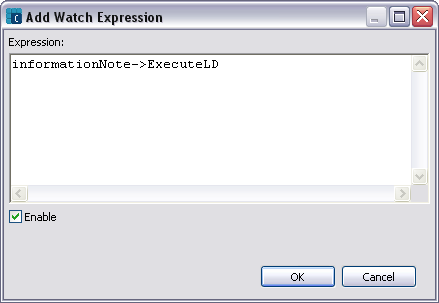
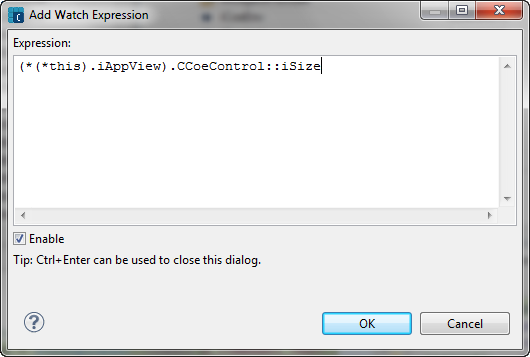
revised variables, watchpoints pages with new images, fixed broken links in F1 help too

Changed region(s): [[0.0, 0.0, 1.0, 1.0]]

diff --git a/core/com.nokia.carbide.cpp.doc.user/html/debugger/variables/viewing_expressions.htm b/core/com.nokia.carbide.cpp.doc.user/html/debugger/variables/viewing_expressions.htm
@@ -20,20 +20,20 @@
   <li>Expressions list pane&#8212;Lists expressions and expression hierarchies. Click the hierarchical controls to expand or collapse the expression. Right-click to open the Expressions view context menu.</li>
   <li>Value pane&#8212;Shows the current value of each corresponding expression. Double-click a value to change it. Right-click to set viewing options.</li>
 </ul>
-<p align="center"><img src="../images/view_expressions.png" width="439" height="144"></p>
+<p align="center"><img src="../images/view_expressions.png" width="667" height="358"></p>
 <p class="figure">Figure 1 - Expressions view </p>
 <h3>Expressions view toolbar icons</h3>
 <p>The following commands appear on the Expressions view toolbar:</p>
 <table width="88%"  border="0" cellpadding="2" cellspacing="0">
   <tr>
-    <th width="34%" scope="col">Item</th>
-    <th width="14%" scope="col">Icons</th>
-    <th width="52%" scope="col">Explanation</th>
+    <th width="25%" scope="col">Item</th>
+    <th width="10%" scope="col">Icons</th>
+    <th width="65%" scope="col">Explanation</th>
   </tr>
   <tr>
     <td><b>Show Type Names </b></td>
     <td><div align="center"><img src="../images/var_toggle_type_names_icon.png" width="19" height="19" /></div></td>
-    <td>Toggles the display of type names in the Expressions view. </td>
+    <td>Toggles the display of type names in the <strong>Expressions</strong> view. </td>
   </tr>
   <tr>
     <td><b>Show Logical Structure </b></td>
@@ -46,6 +46,12 @@
     <td>Collapses all expanded expressions into the top level. </td>
   </tr>
   <tr>
+      <td><strong>Create a New Watch Expression</strong></td>
+      <td><div align="center"><img src="../images/icon_add.png" alt="Add New Watch Expression icon" width="18" height="18"></div></td>
+      <td><p>Click to open the <strong>Add New Expression </strong>dialog. Enter the expression to add, then click <strong>OK</strong>.</p>
+        <p align="center"><img src="../images/wnd_add_watch_expr.png" alt="Add Watch Expression window" width="530" height="357"></p></td>
+  </tr>
+  <tr>
     <td><b>Remove Selected Expression </b></td>
     <td><div align="center"><img src="../images/var_remove_selected_globals_icon.png" width="18" height="16" /></div></td>
     <td>Click to remove all currently selected expressions from the expressions list. </td>
@@ -55,10 +61,16 @@
     <td><div align="center"><img src="../images/var_remove_all_globals_icon.png" width="19" height="19" /></div></td>
     <td>Click to remove all expressions from the expressions list. </td>
   </tr>
+  <tr>
+      <td><strong>View Menu</strong></td>
+      <td><div align="center"><img src="../images/icon_menu_white.png" alt="View menu" width="12" height="12"></div></td>
+      <td><p>Click the <strong>View Menu</strong> icon to set the layout of the <strong>Expressions</strong> view.</p>
+        <p align="center"><img src="../images/menu_vew_expressions_01.png" alt="View menu" width="326" height="158"></p></td>
+  </tr>
 </table>
 <h3>Expressions view context menu options</h3>
 <p>Right-click in the Expression's pane in the <span class="style1">Expressions</span> view to access the context menu commands shown in Figure 2.</p>
-<p align="center"><img src="../images/view_expressions_menu_cmds.png" width="226" height="223"></p>
+<p align="center"><img src="../images/menu_vew_expressions_02.png" alt="Expressions view context menu" width="429" height="408"></p>
 <p class="figure">Figure 2. <span class="style1">Expressions</span> view context menu commands (Expression list pane)</p>
 <p>The  commands include: </p>
 <table width="800"  border="0" cellpadding="2" cellspacing="0">
@@ -68,33 +80,35 @@
   </tr>
   <tr>
     <td><b>Select All</b></td>
-    <td>Selects all the expressions shown in the Expressions view.</td>
+    <td>Selects all the expressions shown in the <strong>Expressions</strong> view.</td>
   </tr>
   <tr>
     <td><b>Copy Expressions</b></td>
-    <td>Copies the selected expressions to the clipboard.</td>
+    <td><p>Copies the selected expressions to the clipboard.</p>
+        <p class="note"><strong>NOTE</strong> Only the selected expressions visible in the Expressions view are copied. Expressions listed outside the boundary of the view are not in memory and can't be copied at this time.</p></td>
   </tr>
   <tr>
     <td><b>Remove</b></td>
-    <td>Remove the selected expressions from the Expressions view list.</td>
+    <td><p>Remove the selected expressions from the <strong>Expressions</strong> view list.</p>
+        </td>
   </tr>
   <tr>
     <td><b>Remove All</b></td>
-    <td>Remove all expressions from the Expressions view list.</td>
+    <td>Remove all expressions from the <strong>Expressions</strong> view list.</td>
   </tr>
   <tr>
     <td><b>Find...</b></td>
-    <td>Opens a <b>Find</b> dialog to search the Expressions view list.</td>
+    <td><p>Opens a <b>Find</b> dialog to search the <strong>Expressions</strong> view list. Enter the expression to search for and click <strong>OK</strong>.</p>
+        <p align="center"><img src="../images/wnd_find_expressions.png" alt="Find Expressions dialog" width="398" height="437"></p></td>
   </tr>
   <tr>
     <td><b>Change Value...</b></td>
     <td><p>Opens the <b>Set Value</b> dialog where you can modify the value assigned to the selected expressions. Change the value and click <b>OK</b>.</p>
-        <p align="center"><img src="../images/wnd_set_value.png" width="401" height="214"></p></td>
+        <p align="center"><img src="../images/wnd_set_value.png" width="488" height="234"></p></td>
   </tr>
   <tr>
     <td><b>Add Watch Expression...</b></td>
-    <td><p>Opens the <a href="adding_expressions.htm">Add Watch Exression</a> dialog for creation of a new expression.</p>
-    </td>
+    <td><p>Opens the <a href="adding_expressions.htm">Add Watch Exression</a> dialog for creation of a new expression.</p>    </td>
   </tr>
   <tr>
     <td><b>Disable</b></td>
@@ -109,8 +123,32 @@
     <td>Opens the <b>Edit Watch Expression</b> dialog where you can modify the expression and enable it for automatic evaluation.</td>
   </tr>
   <tr>
-    <td><b>Reevaluate Watch Expression</b></td>
-    <td>Forces the expression to be reevaluated. Useful after the expressions has been edited or not evaluated due to being disabled.</td>
+      <td><strong>Add Watchpoint (C/C++)...</strong></td>
+      <td><p>Opens the <a href="../watchpoints/setting_watchpoints.htm">Add Watchpoint</a> dialog enabling you to define a watchpoint on the variable.</p>
+        <p align="center"><img src="../images/wnd_add_watchpoint.png" alt="Add Watchpoint window" width="238" height="253"></p></td>
+  </tr>
+  <tr>
+      <td><strong>Cast To Type...</strong></td>
+      <td><p>Opens the <b>Cast to Type</b> dialog where you can assign a new type to the expression. Enter the type and click <strong>OK</strong>. </p>
+          <p>All cast expressions are then shown using the <strong>Restore Original Type</strong> menu option making them easy to identify and restore later.</p></td>
+  </tr>
+  <tr>
+      <td><strong>Display As Array...</strong></td>
+      <td>Opens the <strong>Display as Array</strong> dialog where you can set array parameters to show the variables. Enter the <strong>Start index</strong> and <strong>Length</strong>, then click <strong>OK</strong> to update how the variables are shown in the Variables view.</td>
+  </tr>
+  <tr>
+      <td><strong>Format</strong></td>
+      <td><p>Change the selected variable's  display format. The default setting is Natural, or the format assigned when the variable is defined. For example, the decimal value of 256 would appear as:</p>
+          <ul>
+              <li>Binary (<span class="code">0b100000</span>)</li>
+              <li>Natural (<span class="code">256</span>)</li>
+              <li>Decimal (<span class="code">256</span>)</li>
+              <li>Hexadecimal (<span class="code">0x100</span>)</li>
+        </ul></td>
+  </tr>
+  <tr>
+      <td><strong>Watch</strong></td>
+      <td>Creates a watchpoint on the selected variable and displays it in the <a href="../watchpoints/watchpoints.htm">Watchpoint</a> view. </td>
   </tr>
 </table>
 <h5>Other references</h5>

diff --git a/core/com.nokia.carbide.cpp.doc.user/html/debugger/watchpoints/watchpoints.htm b/core/com.nokia.carbide.cpp.doc.user/html/debugger/watchpoints/watchpoints.htm
@@ -5,16 +5,16 @@
 <meta http-equiv="Content-Style-Type" content="text/css" />
 <meta name="LASTUPDATED" content="06/17/05 11:09:43" />
 <title>Watchpoints Overview</title>
-<link rel="StyleSheet" href="../../book.css" type="text/css"/>
+<link rel="StyleSheet" href="../../../book.css" type="text/css"/>
 </head>
 <body bgcolor="#FFFFFF">
 <h2>Watchpoints Overview </h2>
 <p>  Use <em>watchpoints</em> (sometimes referred to as access breakpoints) to halt program execution when a specific global location is accessed. After you set a watchpoint at a key point in memory, you can halt program execution whenever that point in memory is written to or read from. You can then examine the call chain, check register and variable values, and step through your code. You can also change values and alter the flow of normal program execution.</p>
 <p>A watchpoint must be both enabled and resolved during a debug session in order to halt program execution. The  <a href="../reference/view_breakpoints.htm">Breakpoints view</a> indicates the status of any watchpoint using a set of common icons and checkmark status badge. These include:</p>
 <ul>
-  <li>An <b>enabled</b> watchpoint has a non-gray icon (<img src="../tasks/watchpoints/images/icon_watchpoint_write_resolved.png" width="15" height="16" align="absmiddle" />) indicating that program execution  halts when encountered.</li>
-  <li>A <b>disabled</b> watchpoint displays a gray icon (<img src="../tasks/watchpoints/images/icon_watchpoint_write_disabled.png" width="16" height="16" align="absmiddle" />) indicating that program execution will not stop when encountered. </li>
-  <li>A <b>resolved</b> watchpoint has a small checkmark badge (<img src="../tasks/watchpoints/images/icon_watchpoint_rw_enabled_resolved.png" width="16" height="16" align="absmiddle" /> ) indicating that the debugger has located it in memory during program launch. When resolved, the debugger can halt program execution if the watchpoint is encountered.</li>
+  <li>An <b>enabled</b> watchpoint has a non-gray icon (<img src="../images/icon_watchpoint_write_resolved.png" width="15" height="16" align="absmiddle" />) indicating that program execution  halts when encountered.</li>
+  <li>A <b>disabled</b> watchpoint displays a gray icon (<img src="../images/icon_watchpoint_write_disabled.png" width="16" height="16" align="absmiddle" />) indicating that program execution will not stop when encountered. </li>
+  <li>A <b>resolved</b> watchpoint has a small checkmark badge (<img src="../images/icon_watchpoint_rw_enabled_resolved.png" alt="Read Write resolved" width="16" height="16" align="absmiddle">) indicating that the debugger has located it in memory during program launch. When resolved, the debugger can halt program execution if the watchpoint is encountered.</li>
 </ul>
 <p>In effect, a watchpoint that is enabled by the user and resolved by the debugger during program launch can halt program execution. The table below shows the various states that cause the debugger to halt program execution: </p>
 <h5>Table 1 Watchpoint&mdash;stop execution chart </h5>
@@ -57,39 +57,39 @@
   <tr>
     <td rowspan="2"><b>Write</b></td>
     <td>enabled</td>
-    <td><div align="center"><img src="../tasks/watchpoints/images/icon_watchpoint_write_resolved.png" width="15" height="16" /></div></td>
+    <td><div align="center"><img src="../images/icon_watchpoint_write_resolved.png" width="15" height="16" /></div></td>
     <td><p>The watchpoint is activated for write access operations on the specific memory location and if resolved, will halt program execution on a write operation at the watchpoint. </p>
     </td>
   </tr>
   <tr>
     <td>disabled</td>
-    <td><div align="center"><img src="../tasks/watchpoints/images/icon_watchpoint_write_disabled.png" width="16" height="16" /></div></td>
+    <td><div align="center"><img src="../images/icon_watchpoint_write_disabled.png" width="16" height="16" /></div></td>
     <td><p>Watchpoint is disabled for the source line, debugger does not halt program execution on a write operation. </p>
     </td>
   </tr>
   <tr>
     <td rowspan="2"><b>Read</b></td>
     <td>enabled</td>
-    <td><div align="center"><img src="../tasks/watchpoints/images/icon_watchpoint_read_enabled.png" width="16" height="16" /></div></td>
+    <td><div align="center"><img src="../images/icon_watchpoint_read_enabled.png" width="16" height="16" /></div></td>
     <td><p>The watchpoint is activated for read access operations on the specific memory location and if resolved, will halt program execution on a read operation at the watchpoint. </p>
     </td>
   </tr>
   <tr>
     <td>disabled</td>
-    <td><div align="center"><img src="../tasks/watchpoints/images/icon_watchpoint_read_disabled.png" width="16" height="16" /></div></td>
+    <td><div align="center"><img src="../images/icon_watchpoint_read_disabled.png" width="16" height="16" /></div></td>
     <td><p>Watchpoint is disabled for the source line, debugger does not halt program execution on a read operation. </p>
     </td>
   </tr>
   <tr>
     <td rowspan="2"><b>Write/Read</b></td>
     <td>enabled</td>
-    <td><div align="center"><img src="../tasks/watchpoints/images/icon_watchpoint_rw_enabled.png" width="16" height="16" /></div></td>
+    <td><div align="center"><img src="../images/icon_watchpoint_rw_enabled.png" width="16" height="16" /></div></td>
     <td><p>The watchpoint is activated for both read and write access operations on the specific memory location and if resolved, will halt program execution  on any read or write operation at the watchpoint. </p>
     </td>
   </tr>
   <tr>
     <td>disabled</td>
-    <td><div align="center"><img src="../tasks/watchpoints/images/icon_watchpoint_rw_disabled.png" width="16" height="16" /></div></td>
+    <td><div align="center"><img src="../images/icon_watchpoint_rw_disabled.png" width="16" height="16" /></div></td>
     <td><p>Watchpoint is disabled for the source line, debugger does not halt program execution on a read or write operation. </p>
     </td>
   </tr>

diff --git a/core/com.nokia.carbide.cpp.doc.user/html/concepts/breakpoints.htm b/core/com.nokia.carbide.cpp.doc.user/html/concepts/breakpoints.htm
@@ -4,11 +4,11 @@
 <meta http-equiv="Content-Type" content="text/html; charset=ISO-8859-1" />
 <meta http-equiv="Content-Style-Type" content="text/css" />
 <meta name="LASTUPDATED" content="06/17/05 11:09:43" />
-<title>Breakpoints</title>
+<title>Breakpoints Overview</title>
 <link rel="StyleSheet" href="../../book.css" type="text/css"/>
 </head>
 <body bgcolor="#FFFFFF">
-<h2>Breakpoints </h2>
+<h2>Breakpoints Overview</h2>
 <p>  A <b>breakpoint</b> is a marker set on a specific line of source code and is designed to halt program execution when encountered by the debugger. After you set a breakpoint at a key point in the program, you can halt its execution, examine its current state, and check register and variable values. You can also change values and alter the flow of normal program execution. Setting breakpoints helps you debug your program and verify its efficiency.</p>
 <p>A project can have multiple breakpoints set in the source code files. All breakpoints  in a project are shown in the <a href="../reference/view_breakpoints.htm">Breakpoints</a> view. Breakpoints are enabled or disabled on the currently selected line within  a source code editor by selecting the <b>Run &gt; Toggle Breakpoint</b> menu option, right-clicking the marker bar in the editor and selecting <b>Toggle Breakpoint</b>, or by pressing <span class="code">CTRL-SHIFT-B</span>.</p>
 <p>You can set a breakpoint on any executable line of code that the debugger can resolve. Lines containing comments and other non executable code cannot be assigned a breakpoint as they are normally stripped from the  compiled   binary. The debugger must load  the symbols for a module before it can attempt to resolve  breakpoints within the module. This is most easily done using the <a href="../reference/view_executables.htm">Executables</a> view to import a binary file, especially if the binary is not in the workspace. </p>

diff --git a/core/com.nokia.carbide.cpp.doc.user/html/debugger/watchpoints/status_watchpoints.htm b/core/com.nokia.carbide.cpp.doc.user/html/debugger/watchpoints/status_watchpoints.htm
@@ -14,7 +14,7 @@
 <ul>
   <li>An <b>enabled</b> watchpoint has a non-gray icon (<img src="../images/icon_watchpoint_write_resolved.png" width="15" height="16" align="absmiddle" />) indicating that program execution  halts when encountered.</li>
   <li>A <b>disabled</b> watchpoint displays a gray icon (<img src="../images/icon_watchpoint_write_disabled.png" width="16" height="16" align="absmiddle" />) indicating that program execution will not stop when encountered. </li>
-  <li>A <b>resolved</b> watchpoint has a small checkmark badge (<img src="../images/icon_watchpoint_rw_enabled_resolved.png" width="16" height="16" align="absmiddle" /> ) indicating that the debugger has located it in memory during program launch. When resolved, the debugger can halt program execution if the watchpoint is encountered.</li>
+  <li>A <b>resolved</b> watchpoint has a small checkmark badge (<img src="../images/icon_watchpoint_rw_enabled_resolved.png" width="16" height="16" align="absmiddle" />) indicating that the debugger has located it in memory during program launch. When resolved, the debugger can halt program execution if the watchpoint is encountered.</li>
 </ul>
 <p>In effect, a watchpoint that is enabled by the user and resolved by the debugger during program launch can halt program execution. The table below shows the various states that cause the debugger to halt program execution: </p>
 <h5>Table 1 Watchpoint&mdash;stop execution chart </h5>
